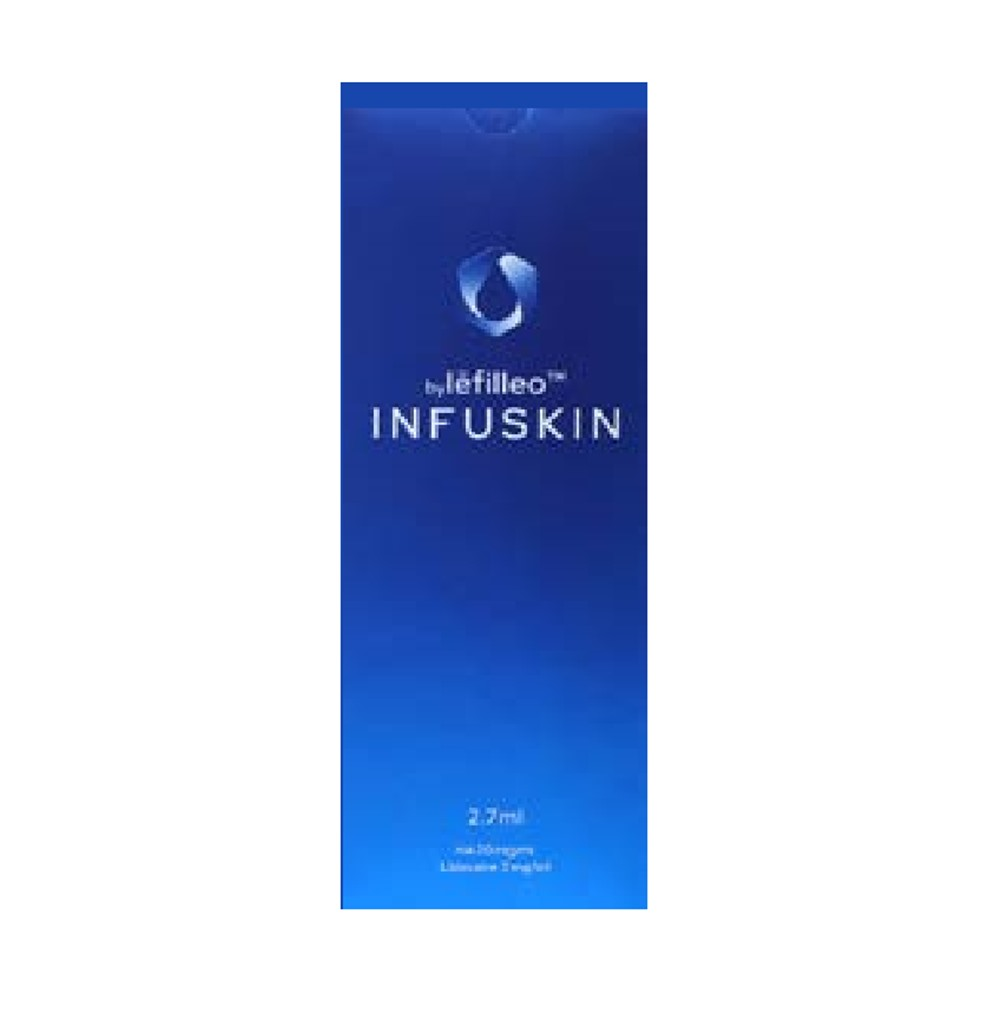
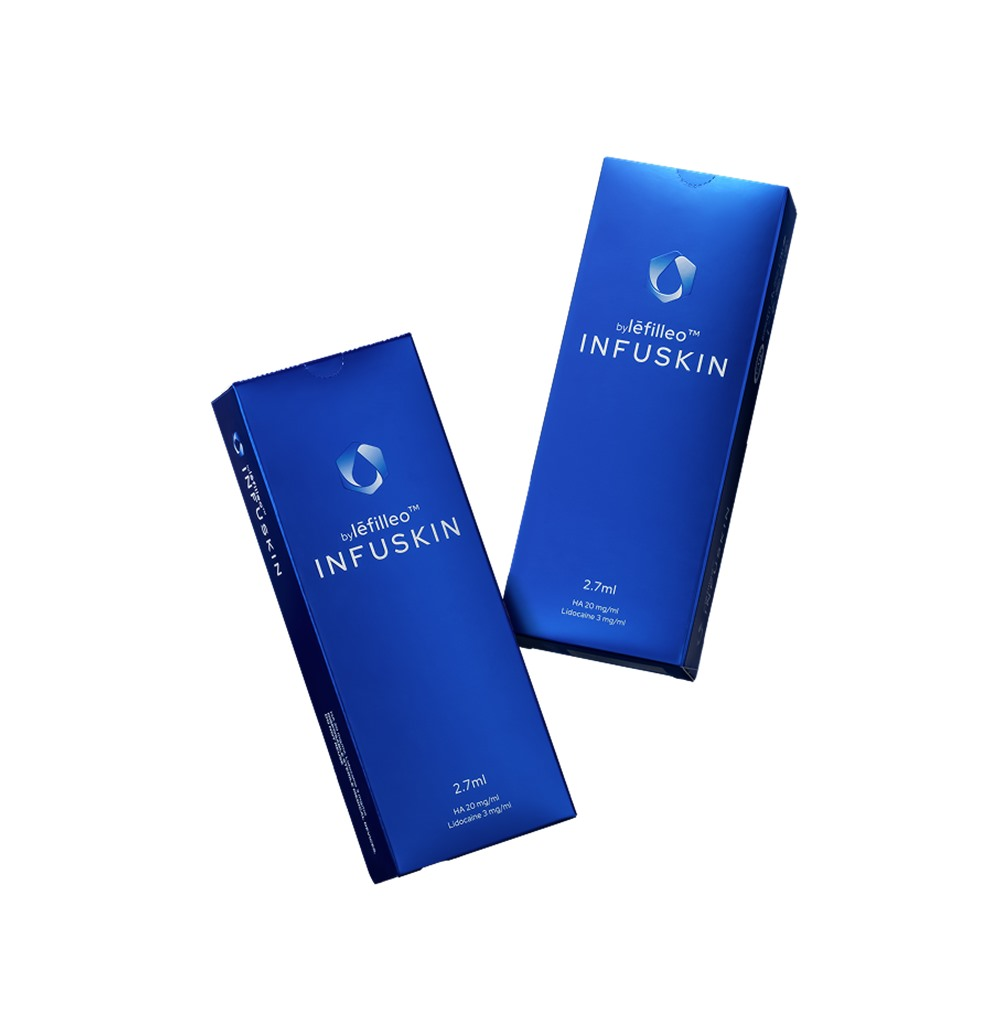
feat: contact form submits to intranet inquiries table (no mail app); hi-res INFUSKIN photo; company/contact-person form fields

diff --git a/company/index.html b/company/index.html
@@ -691,25 +691,32 @@
       <form class="rv" id="cform" novalidate>
         <div class="f-2col">
           <div>
-            <label for="f-name">성함 / 소속</label>
-            <input id="f-name" name="name" type="text" autocomplete="name">
+            <label for="f-company">기업명</label>
+            <input id="f-company" name="company" type="text" autocomplete="organization">
           </div>
           <div>
-            <label for="f-tel">연락처</label>
+            <label for="f-name">담당자명</label>
+            <input id="f-name" name="name" type="text" autocomplete="name">
+          </div>
+        </div>
+        <div class="f-2col">
+          <div>
+            <label for="f-tel">Phone</label>
             <input id="f-tel" name="tel" type="tel" autocomplete="tel">
+          </div>
+          <div>
+            <label for="f-email">Email</label>
+            <input id="f-email" name="email" type="email" autocomplete="email">
           </div>
         </div>
         <div>
-          <label for="f-email">이메일</label>
-          <input id="f-email" name="email" type="email" autocomplete="email">
-        </div>
-        <div>
-          <label for="f-msg">문의 내용</label>
+          <label for="f-msg">메시지</label>
           <textarea id="f-msg" name="message"></textarea>
         </div>
-        <button class="btn-ghost" type="submit">문의 보내기</button>
-        <div class="form-note">보내기를 누르면 메일 앱이 열리고, office@ekmedicalkorea.com 으로 접수됩니다.</div>
-        <div class="sent" id="sent" hidden>메일 앱이 열리지 않으면 office@ekmedicalkorea.com 으로 직접 보내주세요.</div>
+        <button class="btn-ghost" type="submit" id="cform-btn">문의 보내기</button>
+        <div class="form-note">보내주신 문의는 담당자에게 바로 전달되며, 남겨주신 연락처로 회신드립니다.</div>
+        <div class="sent" id="sent" hidden>문의가 접수되었습니다. 빠른 시일 내에 연락드리겠습니다.</div>
+        <div class="sent" id="sent-fail" hidden style="color: #B0533B;">접수 중 문제가 발생했습니다. office@ekmedicalkorea.com 으로 직접 문의해 주세요.</div>
       </form>
     </div>
   </section>
@@ -988,20 +995,39 @@
     requestAnimationFrame(frame);
   })();
 
-  document.getElementById('cform').addEventListener('submit', function (e) {
+  document.getElementById('cform').addEventListener('submit', async function (e) {
     e.preventDefault();
     var f = e.target;
-    var body = [
-      '성함/소속: ' + f.name.value,
-      '연락처: ' + f.tel.value,
-      '이메일: ' + f.email.value,
-      '',
-      f.message.value
-    ].join('\n');
-    location.href = 'mailto:office@ekmedicalkorea.com?subject=' +
-      encodeURIComponent('[홈페이지 문의] ' + (f.name.value || '')) +
-      '&body=' + encodeURIComponent(body);
-    document.getElementById('sent').hidden = false;
+    var btn = document.getElementById('cform-btn');
+    var ok = document.getElementById('sent');
+    var fail = document.getElementById('sent-fail');
+    ok.hidden = true; fail.hidden = true;
+    if (!f.name.value.trim() && !f.company.value.trim()) { fail.hidden = false; return; }
+    btn.disabled = true; btn.style.opacity = '.5';
+    try {
+      var res = await fetch('https://zhjgsryutquaejflvaqq.supabase.co/rest/v1/inquiries', {
+        method: 'POST',
+        headers: {
+          'apikey': 'sb_publishable_kpj2mpufyZQjBvHkr2i7Ng_3rSRZtG1',
+          'Authorization': 'Bearer sb_publishable_kpj2mpufyZQjBvHkr2i7Ng_3rSRZtG1',
+          'Content-Type': 'application/json',
+          'Prefer': 'return=minimal'
+        },
+        body: JSON.stringify([{
+          name: f.name.value,
+          hospital: '[기업] ' + f.company.value,
+          phone: f.tel.value,
+          email: f.email.value || null,
+          content: '[회사소개 홈페이지 문의]\n' + f.message.value
+        }])
+      });
+      if (!res.ok) throw new Error('insert failed ' + res.status);
+      ok.hidden = false;
+      f.reset();
+    } catch (err) {
+      fail.hidden = false;
+    }
+    btn.disabled = false; btn.style.opacity = '';
   });
 </script>
 

diff --git a/company/en/index.html b/company/en/index.html
@@ -691,25 +691,32 @@
       <form class="rv" id="cform" novalidate>
         <div class="f-2col">
           <div>
-            <label for="f-name">Name / Organization</label>
+            <label for="f-company">Company</label>
+            <input id="f-company" name="company" type="text" autocomplete="organization">
+          </div>
+          <div>
+            <label for="f-name">Contact person</label>
             <input id="f-name" name="name" type="text" autocomplete="name">
           </div>
+        </div>
+        <div class="f-2col">
           <div>
             <label for="f-tel">Phone</label>
             <input id="f-tel" name="tel" type="tel" autocomplete="tel">
           </div>
-        </div>
-        <div>
-          <label for="f-email">Email</label>
-          <input id="f-email" name="email" type="email" autocomplete="email">
+          <div>
+            <label for="f-email">Email</label>
+            <input id="f-email" name="email" type="email" autocomplete="email">
+          </div>
         </div>
         <div>
           <label for="f-msg">Message</label>
           <textarea id="f-msg" name="message"></textarea>
         </div>
-        <button class="btn-ghost" type="submit">Send Inquiry</button>
-        <div class="form-note">Pressing send opens your mail app; your inquiry will be sent to office@ekmedicalkorea.com.</div>
-        <div class="sent" id="sent" hidden>If your mail app does not open, please email office@ekmedicalkorea.com directly.</div>
+        <button class="btn-ghost" type="submit" id="cform-btn">Send Inquiry</button>
+        <div class="form-note">Your inquiry goes directly to our team; we will reply using the contact details you leave.</div>
+        <div class="sent" id="sent" hidden>Your inquiry has been received. We will get back to you shortly.</div>
+        <div class="sent" id="sent-fail" hidden style="color: #B0533B;">Something went wrong. Please email office@ekmedicalkorea.com directly.</div>
       </form>
     </div>
   </section>
@@ -988,20 +995,39 @@
     requestAnimationFrame(frame);
   })();
 
-  document.getElementById('cform').addEventListener('submit', function (e) {
+  document.getElementById('cform').addEventListener('submit', async function (e) {
     e.preventDefault();
     var f = e.target;
-    var body = [
-      'Name/Org: ' + f.name.value,
-      'Phone: ' + f.tel.value,
-      'Email: ' + f.email.value,
-      '',
-      f.message.value
-    ].join('\n');
-    location.href = 'mailto:office@ekmedicalkorea.com?subject=' +
-      encodeURIComponent('[Website Inquiry] ' + (f.name.value || '')) +
-      '&body=' + encodeURIComponent(body);
-    document.getElementById('sent').hidden = false;
+    var btn = document.getElementById('cform-btn');
+    var ok = document.getElementById('sent');
+    var fail = document.getElementById('sent-fail');
+    ok.hidden = true; fail.hidden = true;
+    if (!f.name.value.trim() && !f.company.value.trim()) { fail.hidden = false; return; }
+    btn.disabled = true; btn.style.opacity = '.5';
+    try {
+      var res = await fetch('https://zhjgsryutquaejflvaqq.supabase.co/rest/v1/inquiries', {
+        method: 'POST',
+        headers: {
+          'apikey': 'sb_publishable_kpj2mpufyZQjBvHkr2i7Ng_3rSRZtG1',
+          'Authorization': 'Bearer sb_publishable_kpj2mpufyZQjBvHkr2i7Ng_3rSRZtG1',
+          'Content-Type': 'application/json',
+          'Prefer': 'return=minimal'
+        },
+        body: JSON.stringify([{
+          name: f.name.value,
+          hospital: '[Company] ' + f.company.value,
+          phone: f.tel.value,
+          email: f.email.value || null,
+          content: '[Corporate website inquiry]\n' + f.message.value
+        }])
+      });
+      if (!res.ok) throw new Error('insert failed ' + res.status);
+      ok.hidden = false;
+      f.reset();
+    } catch (err) {
+      fail.hidden = false;
+    }
+    btn.disabled = false; btn.style.opacity = '';
   });
 </script>
 
